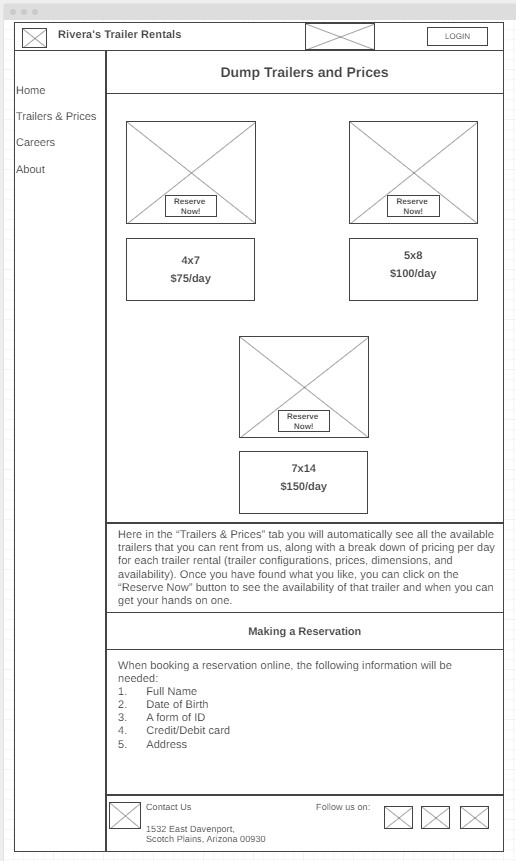
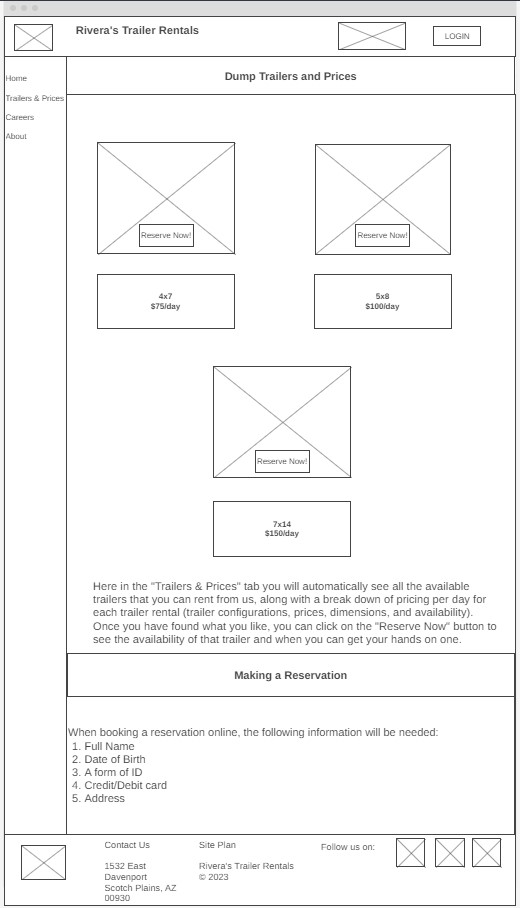
pushing all my edits for all of my personal web pages

diff --git a/trailer-rental/contact.html b/trailer-rental/contact.html
@@ -10,76 +10,86 @@
 </head>
 <!--------------------------- The body starts here ----------------------------->
 <body>
-    <!--------------------------- Here is where the header starts ----------------------------->
+    <!-- =================================== Here is where the header starts =================================== -->
     <header>
-        <div class="header-grid">
-            <a id="logo_link" href="index.html">
+        <div id="header-grid">
+            <a class="logo_link" href="index.html">
                 <img class="logo" src="images/logo.jpg" alt="Rivera's Trailer Rentals Logo">
             </a>
             <h1><strong>Rivera's Trailer Rentals</strong></h1>
             <img class="truck-trailer" src="images/pickup_with_trailer_animation.png" alt="image of animated pickup towing a trailer">
-            <!--------------------------- This is the code for the login button ----------------------------->
+            <!-- This is the code for the login button -->
             <a class="book" href="">LOGIN</a>
         </div>
     </header>
-    <!--------------------------- This is code for the side navigation ----------------------------->
-    <div class="sidenav">
-        <nav>
-            <a href="index.html">Home</a>
-            <a href="trailers-and-prices.html">Trailers & Prices</a>
-            <a href="careers.html">Careers</a>
-            <a href="contact.html">Contact</a>
-        </nav>
-    </div>
     <!--------------------------- This is where main starts ----------------------------->
     <main id="contact-main">
-        <!--------------------------- I will need to change the name of the div below ----------------------------->
-        <div id="feedback"></div>
-        <form action="/my-handling-form-page" method="post">
-            <ul>
-                <li>
-                <label for="name">Name:</label>
-                <input type="text" id="name" name="user_name" />
-                </li>
-                <li>
-                <label for="mail">Email:</label>
-                <input type="email" id="mail" name="user_email" />
-                </li>
-                <li>
-                <label for="msg">Message:</label>
-                <textarea id="msg" name="user_message"></textarea>
-                </li>
-                <li class="button">
-                    <button type="submit">Send your message</button>
-                </li>
-            </ul>
-        </form>
+        <div class="contact-1">
+            <!--------------------------- This is code for the side navigation ----------------------------->
+            <div class="sidenav">
+                <nav>
+                    <a href="index.html">Home</a>
+                    <a href="trailers-and-prices.html">Trailers & Prices</a>
+                    <a href="careers.html">Careers</a>
+                    <a href="contact.html">Contact</a>
+                </nav>
+            </div>
+            <!--------------------------- I will need to change the name of the div below ----------------------------->
+            <div id="feedback"></div>
+            <form action="/my-handling-form-page" method="post">
+                <ul class="ul-contact">
+                    <li>
+                    <label for="name">Name:</label>
+                    <input type="text" id="name" name="user_name" />
+                    </li>
+                    <li>
+                    <label for="mail">Email:</label>
+                    <input type="email" id="mail" name="user_email" />
+                    </li>
+                    <li>
+                    <label for="msg">Message:</label>
+                    <textarea id="msg" name="user_message"></textarea>
+                    </li>
+                    <li class="button">
+                        <button type="submit">Send your message</button>
+                    </li>
+                </ul>
+            </form>
+        </div>
     </main>
     <!--------------------------- This is where my footer starts ----------------------------->
     <footer>
-        <a id="logo_link" href="index.html">
-            <img class="logo" src="images/logo.png" alt="Rivera's Trailer Rentals Logo">
-        </a>
-        <a href="contact.html">Contact Us</a>
-        <p>
-            1532 East Davenport<br>
-            Scotch Plains, AZ 00930
-        </p>
-        <div class="social-home">
-            <a href="https://facebook.com" target="_blank">
-                <img src="images/facebook.png" alt="fb icon">
+        <div id="footer-grid">
+            <a id="logo_link" href="index.html">
+                <img class="logo" src="images/logo.jpg" alt="Rivera's Trailer Rentals Logo">
             </a>
-            <a href="https://twitter.com" target="_blank">
-                <img src="images/twitter.png" alt="twitter icon">
-            </a>
-            <a href="https://instagram.com" target="_blank">
-                <img src="images/instagram.png" alt="instagram icon">
-            </a>
+            <p class="address">
+                <a class="contact-us" href="contact.html">Contact Us</a><br><br>
+                1532 East Davenport<br>
+                Scotch Plains, AZ 00930
+            </p>
+            <p class="follow-us">
+                Follow us on:
+            </p>
+            <div class="social-home">
+                <a href="https://facebook.com" target="_blank">
+                    <img src="images/facebook.png" alt="fb icon">
+                </a>
+                <a href="https://twitter.com" target="_blank">
+                    <img src="images/twitter.png" alt="twitter icon">
+                </a>
+                <a href="https://instagram.com" target="_blank">
+                    <img src="images/instagram.png" alt="instagram icon">
+                </a>
+            </div>
+            <p class="other-part">
+                <a class="site-plan" href="site-plan.html">Site Plan</a><br><br>
+                Rivera's Trailer Rentals &copy; 2023
+            </p>
         </div>
-        <a href="site-plan.html">Site Plan</a>
     </footer>
     <!--------------------------- This is where I have the script for the  ----------------------------->
-    <script>
+    <script class="contact-script">
         // get the feedback div element so we can do something with it.
         const feedbackElement = document.getElementById('feedback');
         // get the form so we can read what was entered in it.

diff --git a/trailer-rental/styles/style.css b/trailer-rental/styles/style.css
@@ -165,6 +165,7 @@ footer #footer-grid .follow-us {
 .first-home .first-section {
   padding: 5%;
   border: 4px solid #5F0F40;
+  box-shadow: 5px 5px 10px 10px #686b5f;
 }
 
 .first-home {
@@ -214,7 +215,7 @@ footer #footer-grid .follow-us {
 #second-1-home {
   align-self: center;
   text-align: center;
-  grid-column: 3/6;
+  grid-column: 3/7;
   grid-row: 1/2;
 }
 
@@ -248,6 +249,7 @@ footer #footer-grid .follow-us {
   grid-column: 4/8;
   grid-row: 2/3;
   border: 4px solid #5F0F40;
+  box-shadow: 5px 5px 10px 10px #686b5f;
 }
 
 #second-3-home .happy-driver {
@@ -264,7 +266,7 @@ footer #footer-grid .follow-us {
   z-index: 1;
   background-color: #275657;
   grid-column: 1/2;
-  grid-row: 1/7;
+  grid-row: 1/9;
   border-left: 4px solid #5F0F40;
   border-right: 4px solid #5F0F40;
   line-height: 3em;
@@ -433,11 +435,6 @@ footer #footer-grid .follow-us {
   animation-duration: 1.5s;
 }
 
-@keyframes fade {
-  from {opacity: .4}
-  to {opacity: 1}
-}
-
 /* ############################## This is the code for section 1 of the trailers and prices page  ##############################*/
 
 #tp-1-main {
@@ -448,11 +445,12 @@ footer #footer-grid .follow-us {
 
 .image-price-1 .trailer-1, .image-price-2 .truck-trailer-1, .image-price-3 .truck-trailer-2 {
   height: 65%;
-  width: 100%;
+  width: 130%;
 }
 
 .image-price-1 p, .image-price-2 p, .image-price-3 p {
   border: 4px solid #5F0F40;
+  width: 130%;
 }
 
 .header-tp {
@@ -525,7 +523,10 @@ footer #footer-grid .follow-us {
   grid-column: 4/8;
 }
 
-/* ############################## This is the code for section 2 of the trailers and prices page  ##############################*/
+.image-price-1 p, .image-price-2 p, .image-price-3 p, .trailer-1, .truck-trailer-1, .truck-trailer-2 {
+  box-shadow: 5px 5px 10px 10px #686b5f;
+}
+/* ############################## This is the code for section 2 of the trailers and prices page  ############################## */
 
 #tp-2-main {
   display: grid;
@@ -543,11 +544,109 @@ footer #footer-grid .follow-us {
 }
 
 .paragraph-2-tp {
+  margin-top: 8%;
+  margin-bottom: 8%;
   line-height: 1.75em;
-  grid-column: 4/8;
+  grid-column: 3/8;
 }
 
-/* ############################## This is the queries for the side navigation bar ##############################*/
+/* ############################## This is the code for the contact page ############################## */
+
+.contact-1 {
+  display: grid;
+  grid-template-columns: repeat(8, 1fr);
+  border-right: 4px solid #5F0F40;
+}
+
+form {
+  /* Center the form on the page */
+  margin: 0 auto;
+  margin-top: 10%;
+  margin-bottom: 30%;
+  width: 70%;
+  height: 70%;
+  /* Form outline */
+  padding: 1em;
+  border: 4px solid #5F0F40;
+  border-radius: 1em;
+  grid-column: 3/7;
+  box-shadow: 5px 5px 10px 10px #686b5f;
+}
+
+.ul-contact {
+  list-style: none;
+  padding: 0;
+  margin: 0;
+}
+
+form li + li {
+  margin-top: 1em;
+}
+
+label {
+  /* Uniform size & alignment */
+  display: inline-block;
+  width: 90px;
+  text-align: right;
+}
+
+input,
+textarea {
+  /* To make sure that all text fields have the same font settings
+     By default, textareas have a monospace font */
+  font: 1em sans-serif;
+
+  /* Uniform text field size */
+  width: 70%;
+  box-sizing: border-box;
+
+  /* Match form field borders */
+  border: 1px solid #999;
+}
+
+input:focus,
+textarea:focus {
+  /* Additional highlight for focused elements */
+  border-color: #000;
+}
+textarea {
+  /* Align multiline text fields with their labels */
+  vertical-align: top;
+
+  /* Provide space to type some text */
+  height: 5em;
+}
+
+.button {
+  /* Align buttons with the text fields */
+  padding-left: 90px; /* same size as the label elements */
+}
+
+button {
+  /* This extra margin represent roughly the same space as the space
+     between the labels and their text fields */
+  margin-left: 0.5em;
+}
+#feedback {
+  background-color: antiquewhite;
+  position: absolute;
+  top: 0;
+  left: 0;
+  right: 0;
+  padding: .5em;
+  /* make this element invisible until we are ready for it */
+  display: none;      
+}
+.moveDown {
+  margin-top: 2em;
+}
+
+/* ############################## This is the queries section ############################## */
+
+@keyframes fade {
+  from {opacity: .4}
+  to {opacity: 1}
+}
 
 /* @media screen and (max-height: 100%) {
   .sidenav {padding-top: 15px;}
